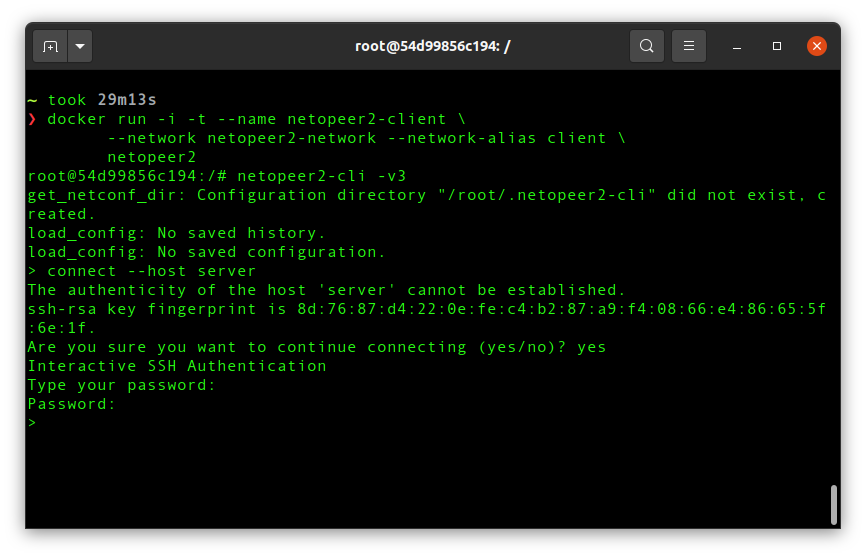
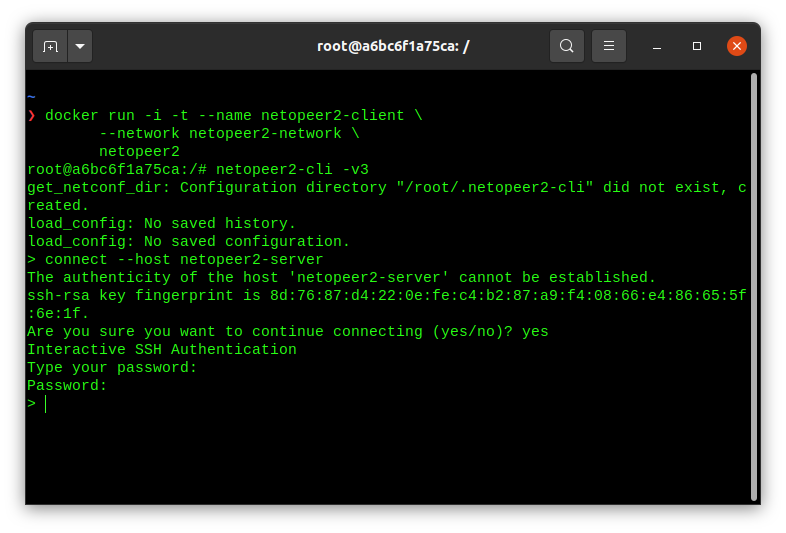
docker-compose

Changed region(s): [[0.0305, 0.03, 0.9771, 0.9606]]

diff --git a/README.md b/README.md
@@ -43,7 +43,7 @@ Run `netopeer2-server` container
 
 ```
 docker run -i -t --name netopeer2-server \
-      --network netopeer2-network --network-alias server \
+      --network netopeer2-network \
       netopeer2
 ```
 
@@ -62,7 +62,7 @@ Run `netopeer2-client` container
 
 ```
 docker run -i -t --name netopeer2-client \
-      --network netopeer2-network --network-alias client \
+      --network netopeer2-network \
       netopeer2
 ```
 
@@ -72,10 +72,10 @@ Start running netopeer2 client
 root@xxxxxxxxx:/# netopeer2-cli -v3
 ```
 
-Connect to netopeer2-server using network alias (password: `netopeer`)
+Connect to netopeer2-server (password: `netopeer`)
 
 ```
-root@xxxxxxxxx:/# connect --host server
+root@xxxxxxxxx:/# connect --host netopeer2-server
 ```
 
 ![netopeer-client-setup](images/netopeer2-client-setup.png)
@@ -87,3 +87,47 @@ get-config --source running
 ```
 
 ## Setup netopeer2 server-client network (Docker compose)
+
+### server
+
+The command we used:
+
+```
+docker run -i -t --name netopeer2-server \
+      --network netopeer2-network \
+      netopeer2
+```
+
+In `docker-compose` this becomes the following service:
+
+```
+services:
+      netopeer2-server:
+            image: netopeer2
+            stdin_open: true # docker run -i
+            tty: true        # docker run -t
+```
+
+### client
+
+The command we used:
+
+```
+docker run -i -t --name netopeer2-client \
+      --network netopeer2-network \
+      netopeer2
+```
+
+In `docker-compose` this becomes the following service:
+
+```
+services:
+      netopeer2-client:
+            image: netopeer2
+            stdin_open: true # docker run -i
+            tty: true        # docker run -t
+```
+
+Open terminal for netopeer-client: `docker exec -ti netopeer2-docker-setup_netopeer2-client_1 sh`
+
+Open terminal for netopeer-server: `docker exec -ti netopeer2-docker-setup_netopeer2-server_1 sh`
